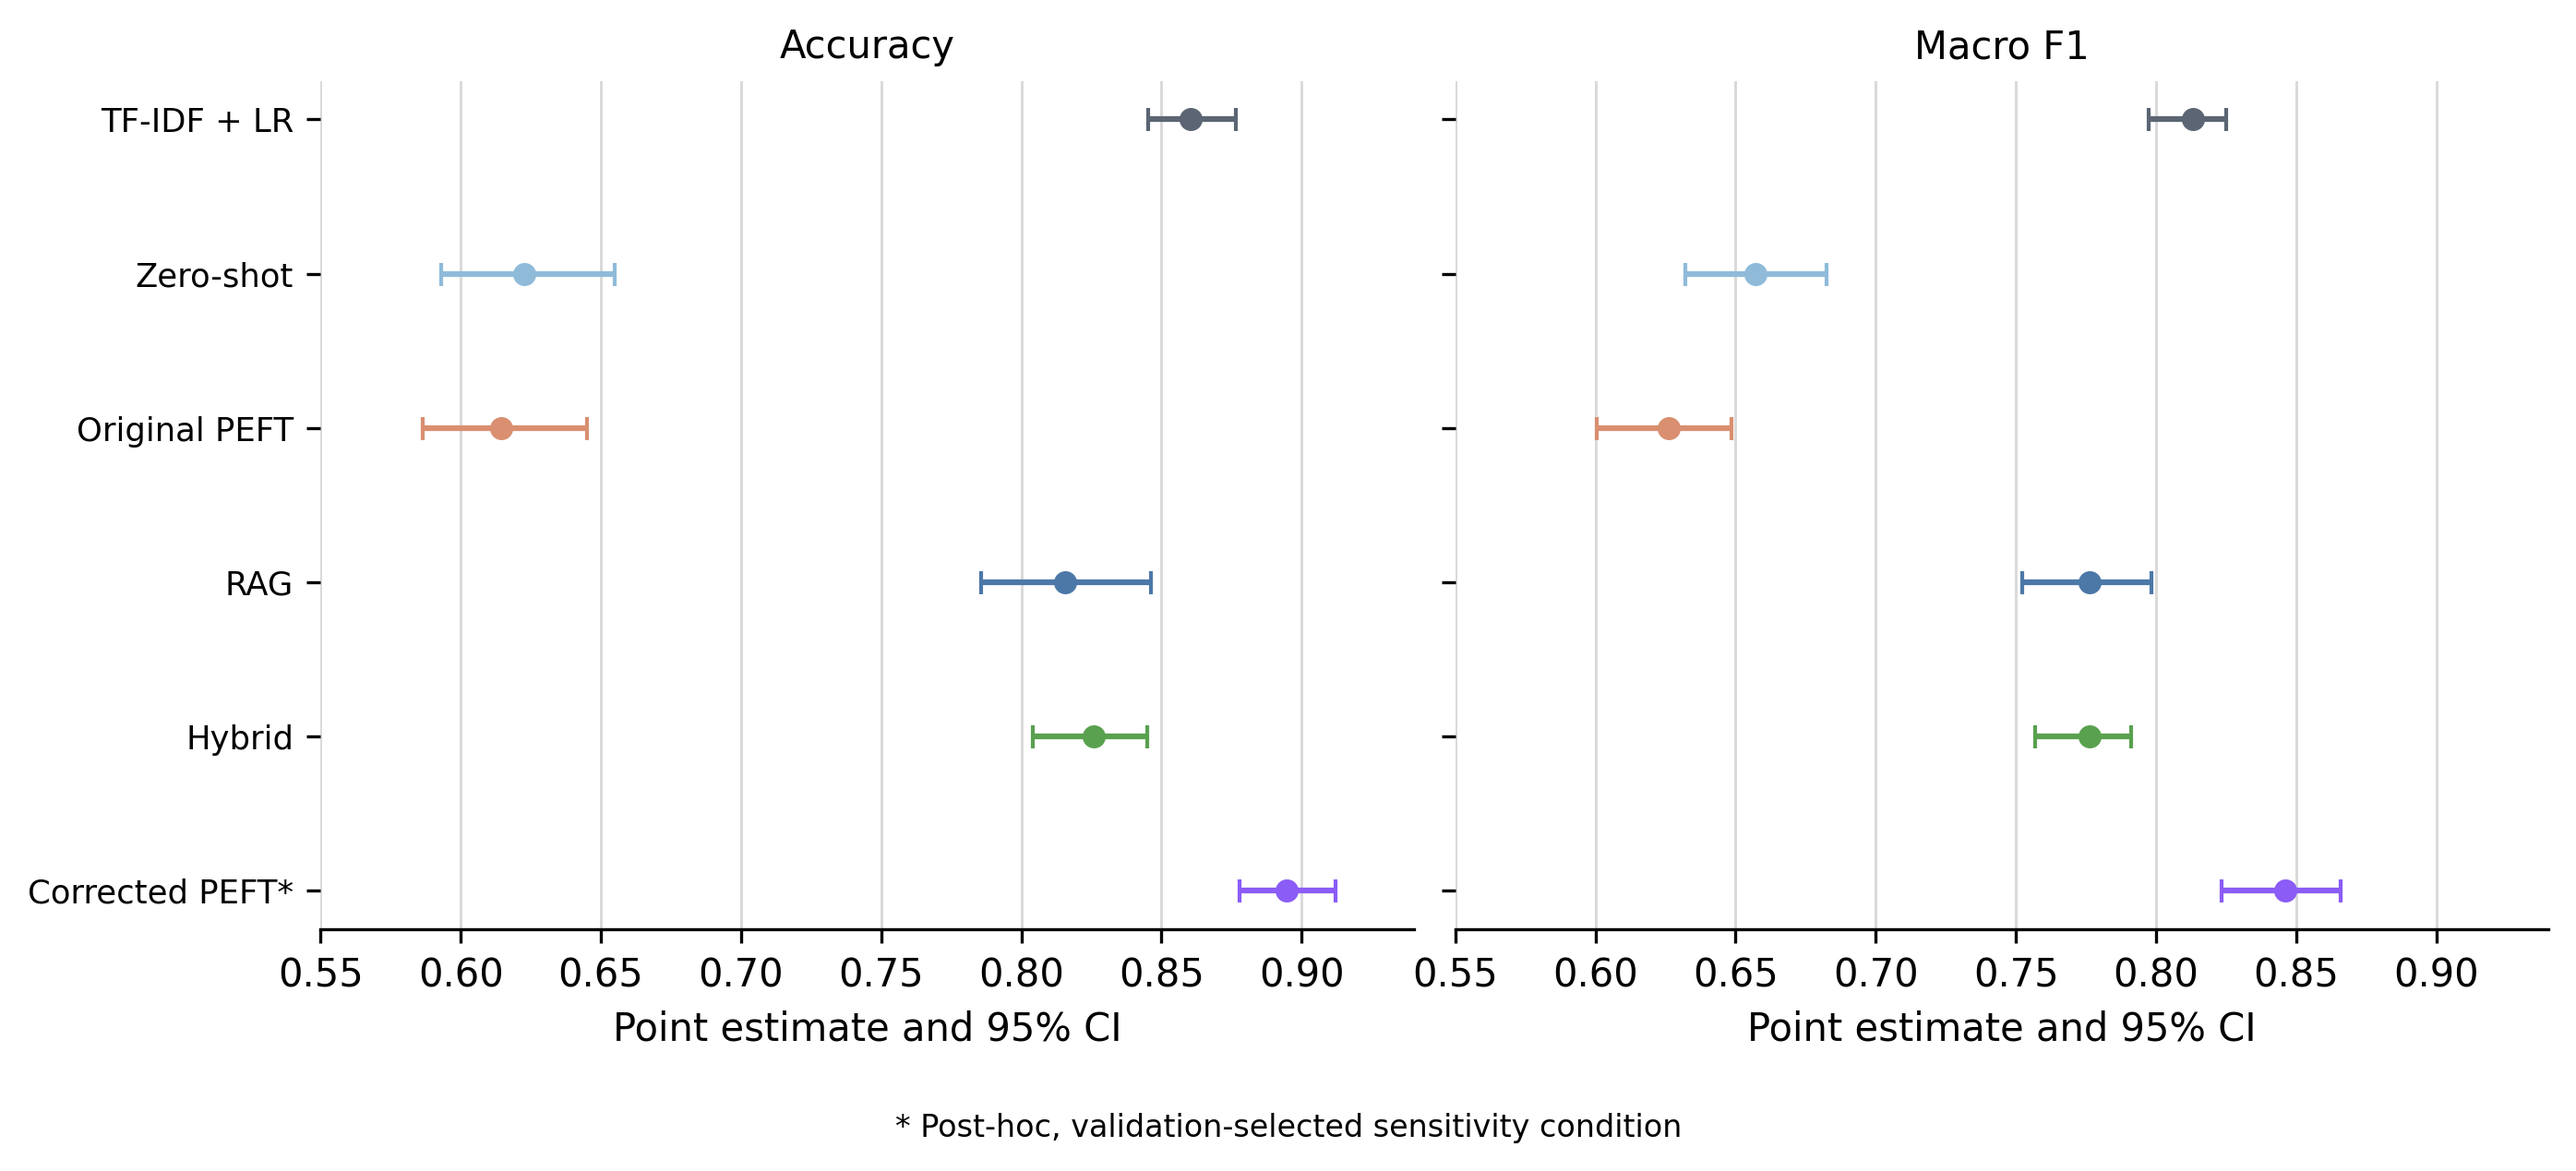
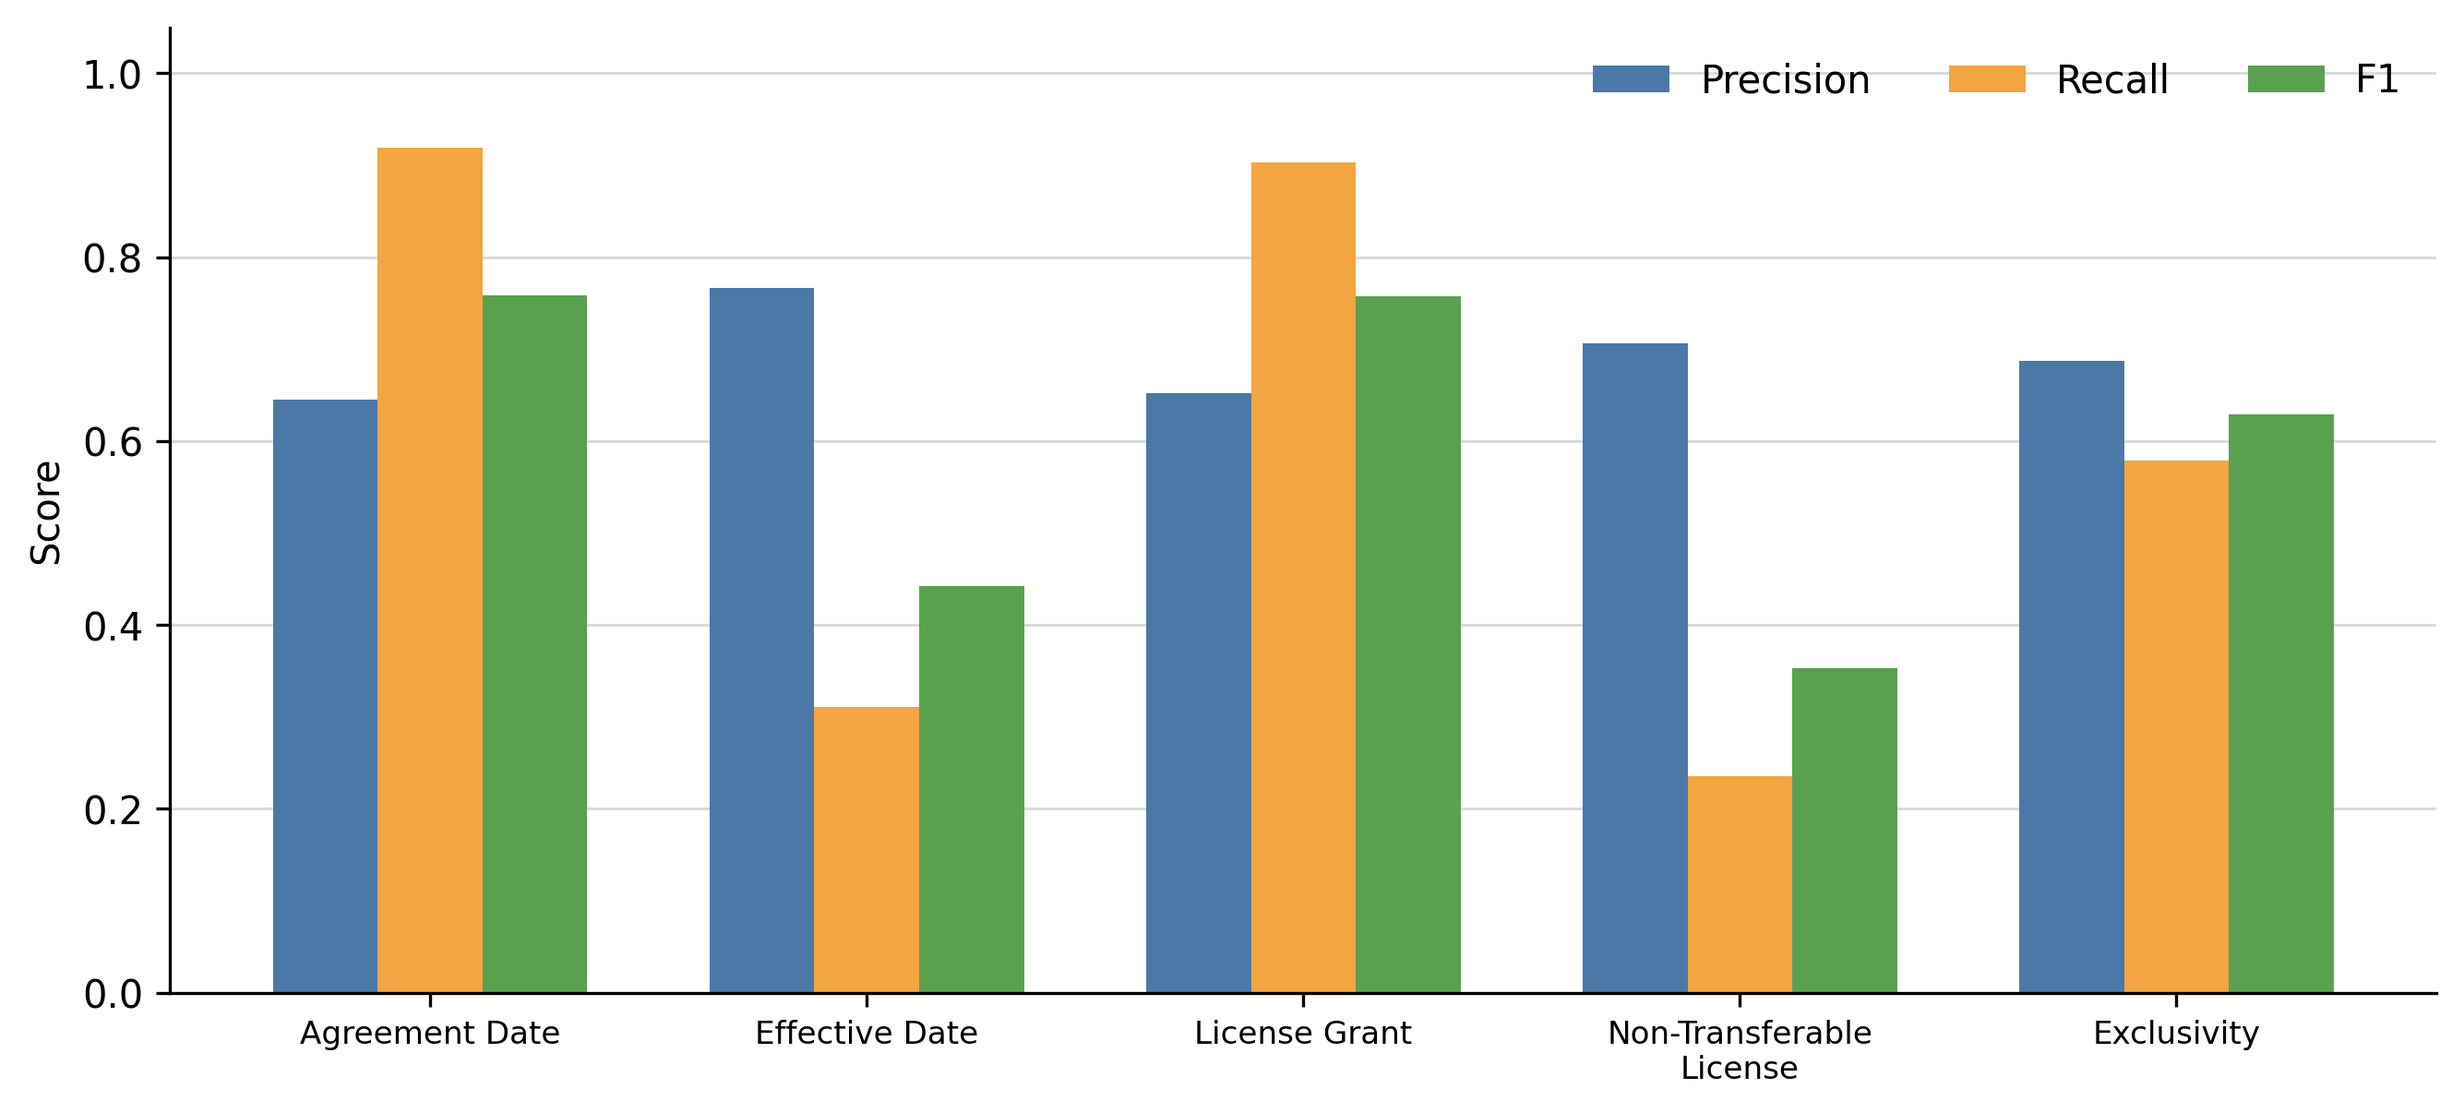
Correct figure assignments and clarify class shares

diff --git a/docs/methodology.md b/docs/methodology.md
@@ -57,7 +57,9 @@ The clauses were partitioned using a two-stage grouped split with random seed
 one partition. First, 20% of the 285 document-title groups were assigned to the
 test set. Of the remaining groups, 15% were assigned to validation and the rest
 to training. Table 3.1 reports the resulting partitions, and Figure 3.2 shows
-the class distribution across them.
+the share of each class within each partition. The bars are normalised
+separately for training, validation and test; they therefore show percentages,
+not raw clause counts.
 
 **Table 3.1. Grouped dataset partitions**
 
@@ -76,7 +78,7 @@ For that reason, exact and near-duplicate text was audited separately. These
 audits were diagnostic: records were not removed automatically merely because
 their wording was repeated.
 
-![Figure 3.2. Class distribution across the training, validation and test partitions](figures/figure_3_2_class_distribution.png)
+![Figure 3.2. Class shares within the training, validation and test partitions](figures/figure_3_2_class_distribution.png)
 
 ## 3.4 Compared methods
 
